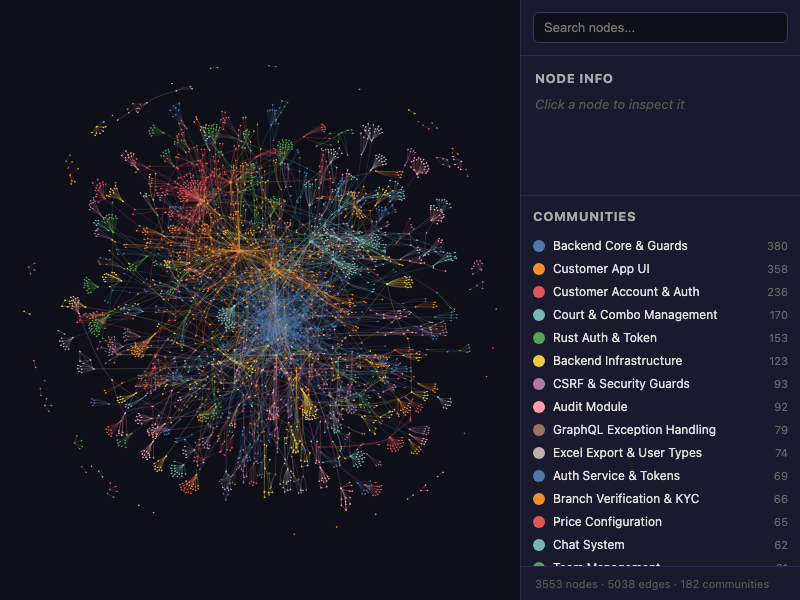
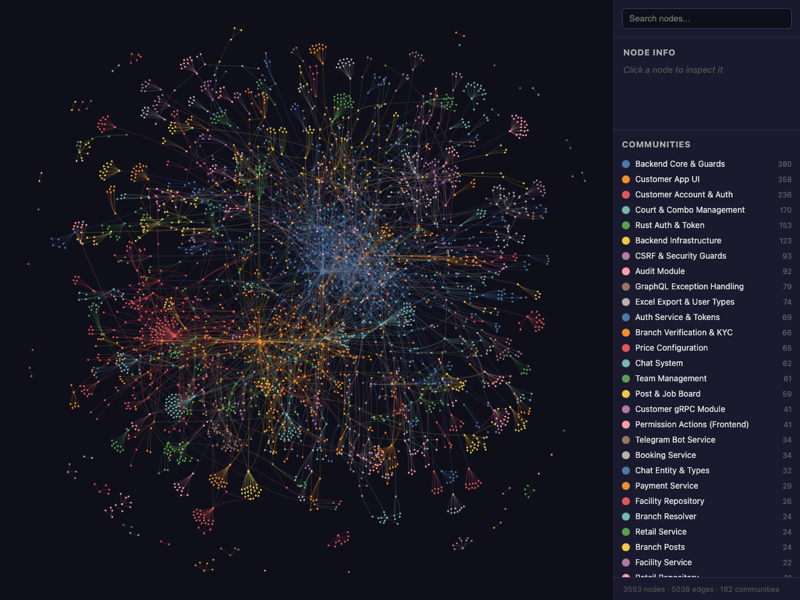
fix: image objectFit contain + re-capture GoSporta screenshot
- SVG/images use object-fit: contain with padding (no more cropping)
- GoSporta graph re-captured at 1200x900, resized to 800w (433KB)

diff --git a/src/components/sections/Projects.tsx b/src/components/sections/Projects.tsx
@@ -152,8 +152,9 @@ export default function Projects() {
                         transition={{ duration: 0.3 }}
                         style={{
                           width: "100%", height: "100%",
-                          objectFit: "cover",
+                          objectFit: "contain",
                           position: "absolute", inset: 0,
+                          padding: 8,
                         }}
                       />
                     </AnimatePresence>
